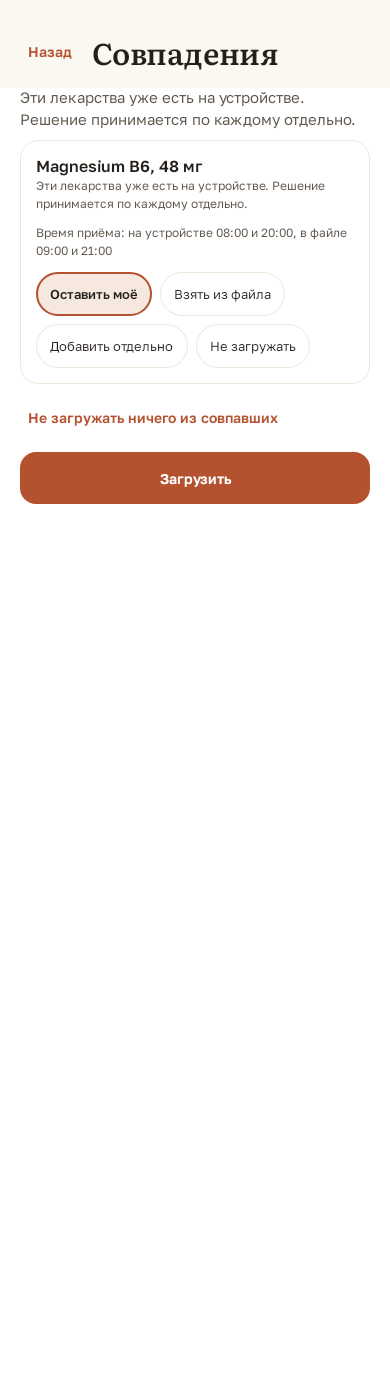
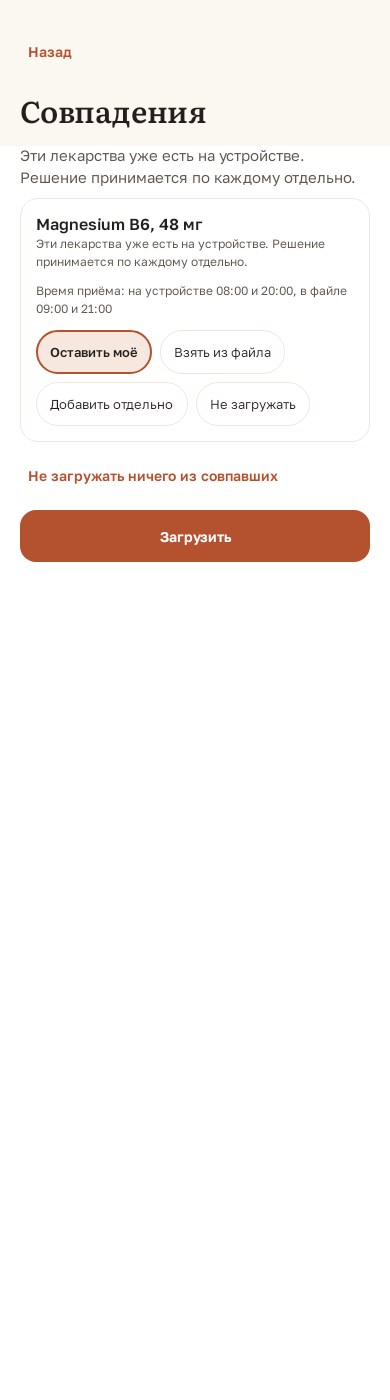
fix(SKL-60): refresh the transfer counts, wrap the chips and the nested header

Changed region(s): [[0.0308, 0.0307, 0.9538, 0.3993]]

diff --git a/feature-settings/src/testDebug/kotlin/ru/stohastika/sklyanka/feature/settings/transfer/DataTransferRouteTest.kt b/feature-settings/src/testDebug/kotlin/ru/stohastika/sklyanka/feature/settings/transfer/DataTransferRouteTest.kt
@@ -1,0 +1,125 @@
+package ru.stohastika.sklyanka.feature.settings.transfer
+
+import android.os.Looper
+import androidx.compose.ui.test.junit4.createComposeRule
+import androidx.compose.ui.test.onAllNodesWithText
+import androidx.test.ext.junit.runners.AndroidJUnit4
+import androidx.test.platform.app.InstrumentationRegistry
+import org.junit.Rule
+import org.junit.Test
+import org.junit.runner.RunWith
+import org.robolectric.Shadows.shadowOf
+import org.robolectric.annotation.Config
+import ru.stohastika.sklyanka.domain.time.FixedTimeSource
+import ru.stohastika.sklyanka.domain.transfer.AppStamp
+import ru.stohastika.sklyanka.domain.transfer.ApplyTransferUseCase
+import ru.stohastika.sklyanka.domain.transfer.BuildTransferPlan
+import ru.stohastika.sklyanka.domain.transfer.DeviceState
+import ru.stohastika.sklyanka.domain.transfer.ExportDataUseCase
+import ru.stohastika.sklyanka.domain.transfer.ReadTransferFileUseCase
+import ru.stohastika.sklyanka.domain.transfer.TransferDecoded
+import ru.stohastika.sklyanka.domain.transfer.ValidateSnapshot
+import ru.stohastika.sklyanka.feature.settings.R
+import ru.stohastika.sklyanka.ui.theme.SklyankaTheme
+
+/**
+ * Экран «Перенос данных» вместе с его состоянием (SKL-60).
+ *
+ * Проверяет то, что увидел человек: состав устройства перечитывается при каждом
+ * открытии экрана. Между заходами данные меняются — лекарства добавляются, курсы
+ * уходят в архив, — и вчерашние числа в чипах — ложь в том месте, где человек
+ * решает, что попадёт в его резервную копию.
+ */
+@RunWith(AndroidJUnit4::class)
+@Config(qualifiers = "w390dp-h2400dp-mdpi")
+class DataTransferRouteTest {
+
+    @get:Rule
+    val composeRule = createComposeRule()
+
+    private val context = InstrumentationRegistry.getInstrumentation().targetContext
+
+    private val store = FakeTransferStore(
+        DeviceState(
+            profiles = listOf(TransferData.self()),
+            medications = listOf(TransferData.medication(id = "first")),
+            intakes = emptyList(),
+        ),
+    )
+    private val files = FakeTransferFiles()
+    private val settings = FakeSettingsStore()
+    private val log = RecordingLog()
+    private val replanner = FakeReplanner()
+    private val ids = FixedIds()
+    private val codec = FakeCodec(TransferDecoded.Loaded(TransferData.snapshot(), emptyList()))
+    private val time = FixedTimeSource(TransferData.EXPORTED_AT, java.time.ZoneId.of("Europe/Moscow"))
+
+    @Test
+    fun theCountsAreReadAgainWhenTheScreenOpens() {
+        val model = viewModel()
+        // Экран был закрыт: первое чтение состава состоялось, дальше данные меняются.
+        shadowOf(Looper.getMainLooper()).idle()
+        store.state = DeviceState(
+            profiles = listOf(TransferData.self()),
+            medications = listOf(
+                TransferData.medication(id = "first"),
+                TransferData.medication(id = "second"),
+                TransferData.medication(id = "third"),
+            ),
+            intakes = emptyList(),
+        )
+
+        composeRule.setContent {
+            SklyankaTheme {
+                DataTransferRoute(viewModel = model, onOpenPermissions = {}, onBack = {})
+            }
+        }
+
+        val expected = context.resources.getQuantityString(R.plurals.transfer_chip_medications, 3, 3)
+        composeRule.waitUntil(timeoutMillis = WAIT_MS) {
+            composeRule.onAllNodesWithText(expected, useUnmergedTree = true).fetchSemanticsNodes().isNotEmpty()
+        }
+    }
+
+    private fun viewModel(): DataTransferViewModel {
+        val export = ExportDataUseCase(
+            store = store,
+            settings = settings,
+            codec = codec,
+            files = files,
+            time = time,
+            log = log,
+            app = AppStamp(versionName = "1.0", versionCode = 10),
+        )
+        val read = ReadTransferFileUseCase(
+            files = files,
+            codec = codec,
+            validate = ValidateSnapshot(),
+            log = log,
+        )
+        val apply = ApplyTransferUseCase(
+            store = store,
+            settings = settings,
+            codec = codec,
+            files = files,
+            activeProfile = FakeActiveProfile(),
+            replanner = replanner,
+            log = log,
+            buildPlan = BuildTransferPlan(ids),
+        )
+        return DataTransferViewModel(
+            exportData = export,
+            readFile = read,
+            applyTransfer = apply,
+            store = store,
+            settings = settings,
+            files = files,
+            ids = ids,
+            time = time,
+        )
+    }
+
+    private companion object {
+        const val WAIT_MS = 5_000L
+    }
+}

diff --git a/feature-settings/src/testDebug/kotlin/ru/stohastika/sklyanka/feature/settings/transfer/DataTransferScreenTest.kt b/feature-settings/src/testDebug/kotlin/ru/stohastika/sklyanka/feature/settings/transfer/DataTransferScreenTest.kt
@@ -15,6 +15,7 @@ import androidx.compose.ui.test.performTextReplacement
 import androidx.test.ext.junit.runners.AndroidJUnit4
 import androidx.test.platform.app.InstrumentationRegistry
 import org.junit.Assert.assertEquals
+import org.junit.Assert.assertTrue
 import org.junit.Rule
 import org.junit.Test
 import org.junit.runner.RunWith
@@ -27,6 +28,7 @@ import ru.stohastika.sklyanka.feature.settings.R
 import ru.stohastika.sklyanka.ui.component.TAG_TEXT_FIELD_ERROR
 import ru.stohastika.sklyanka.ui.component.TAG_TEXT_FIELD_INPUT
 import ru.stohastika.sklyanka.ui.theme.SklyankaTheme
+import ru.stohastika.sklyanka.ui.R as UiR
 
 /**
  * Экран «Перенос данных» и экраны, которых нет в макетах и которые собраны из компонентов
@@ -61,6 +63,50 @@ class DataTransferScreenTest {
 
         composeRule.onNodeWithTag(TAG_COMPOSITION).assertIsDisplayed()
         composeRule.onNodeWithText(context.getString(R.string.transfer_export_chip_settings)).assertIsDisplayed()
+    }
+
+    /**
+     * Чипы состава переносятся целыми, а не сжимаются в колонки (SKL-60, дефект пилота).
+     *
+     * Пять чипов не умещаются в два фиксированных ряда: последний получал нулевую
+     * ширину и разворачивался по одной букве. Проверяется по геометрии: у каждого
+     * чипа своя ширина, достаточная для его подписи.
+     */
+    @Test
+    fun everyCompositionChipKeepsItsOwnWidth() {
+        showOverview(TransferScreenFixtures.overview())
+
+        val chips = listOf(
+            context.resources.getQuantityString(R.plurals.transfer_chip_medications, CHIP_MEDICATIONS, CHIP_MEDICATIONS),
+            context.resources.getQuantityString(R.plurals.transfer_chip_archived, CHIP_ARCHIVED, CHIP_ARCHIVED),
+            context.resources.getQuantityString(R.plurals.transfer_chip_history_months, CHIP_MONTHS, CHIP_MONTHS),
+            context.resources.getQuantityString(R.plurals.transfer_chip_profiles, CHIP_PROFILES, CHIP_PROFILES),
+            context.getString(R.string.transfer_export_chip_settings),
+        )
+        chips.forEach { text ->
+            val node = composeRule.onNodeWithText(text, useUnmergedTree = true).fetchSemanticsNode()
+            val width = with(composeRule.density) { node.size.width.toDp().value }
+            assertTrue("чип «$text» сжат до ${width}dp", width >= MIN_CHIP_WIDTH_DP)
+        }
+    }
+
+    /**
+     * Заголовок вложенного экрана стоит на своей строке, а не висит после «Назад» (SKL-60).
+     */
+    @Test
+    fun theTitleStandsOnItsOwnLineUnderTheBackLabel() {
+        showOverview(TransferScreenFixtures.overview())
+
+        val back = composeRule
+            .onNodeWithText(context.getString(UiR.string.action_back), useUnmergedTree = true)
+            .fetchSemanticsNode()
+        val title = composeRule
+            .onNodeWithText(context.getString(R.string.transfer_title), useUnmergedTree = true)
+            .fetchSemanticsNode()
+        assertTrue(
+            "заголовок делит строку с «Назад»: back=${back.boundsInRoot}, title=${title.boundsInRoot}",
+            title.boundsInRoot.top >= back.boundsInRoot.bottom,
+        )
     }
 
     @Test
@@ -277,6 +323,16 @@ class DataTransferScreenTest {
                 )
             }
         }
+    }
+
+    private companion object {
+        const val CHIP_MEDICATIONS = 5
+        const val CHIP_ARCHIVED = 12
+        const val CHIP_MONTHS = 8
+        const val CHIP_PROFILES = 2
+
+        /** Ширина текста «настройки» на 12 sp; сжатая колонка до неё не дотягивает. */
+        const val MIN_CHIP_WIDTH_DP = 40f
     }
 
     private fun showMatches(state: TransferUiState) {

diff --git a/feature-settings/src/main/kotlin/ru/stohastika/sklyanka/feature/settings/transfer/TransferBlocks.kt b/feature-settings/src/main/kotlin/ru/stohastika/sklyanka/feature/settings/transfer/TransferBlocks.kt
@@ -4,6 +4,8 @@ import androidx.compose.foundation.background
 import androidx.compose.foundation.border
 import androidx.compose.foundation.layout.Arrangement
 import androidx.compose.foundation.layout.Column
+import androidx.compose.foundation.layout.ExperimentalLayoutApi
+import androidx.compose.foundation.layout.FlowRow
 import androidx.compose.foundation.layout.Row
 import androidx.compose.foundation.layout.fillMaxWidth
 import androidx.compose.foundation.layout.padding
@@ -96,6 +98,7 @@ internal fun ModeOption(
  * «N в архиве», «история за N месяцев», «N профиля», «настройки». Чипа «звуки» из макета
  * здесь нет, а чип «настройки» есть — решение ОВ-66, `task.md` «Дефекты постановки».
  */
+@OptIn(ExperimentalLayoutApi::class)
 @Composable
 internal fun CompositionChips(
     medications: Int,
@@ -105,21 +108,19 @@ internal fun CompositionChips(
     settingsLabel: String,
     modifier: Modifier = Modifier,
 ) {
-    Row(
+    // Поток, а не два фиксированных ряда: число и длина чипов зависят от данных, и на
+    // реальной ширине последний чип получал нулевую ширину и разворачивался по буквам
+    // (SKL-60, дефект пилота). Чип переносится целиком.
+    FlowRow(
         modifier = modifier.fillMaxWidth().testTag(TAG_COMPOSITION),
         horizontalArrangement = Arrangement.spacedBy(SklyankaSpacing.Small),
+        verticalArrangement = Arrangement.spacedBy(SklyankaSpacing.Small),
     ) {
-        Column(verticalArrangement = Arrangement.spacedBy(SklyankaSpacing.Small)) {
-            Row(horizontalArrangement = Arrangement.spacedBy(SklyankaSpacing.Small)) {
-                InfoChip(medicationsChip(medications))
-                InfoChip(archivedChip(archived))
-            }
-            Row(horizontalArrangement = Arrangement.spacedBy(SklyankaSpacing.Small)) {
-                if (historyMonths != null) InfoChip(historyChip(historyMonths))
-                InfoChip(profilesChip(profiles))
-                InfoChip(settingsLabel)
-            }
-        }
+        InfoChip(medicationsChip(medications))
+        InfoChip(archivedChip(archived))
+        if (historyMonths != null) InfoChip(historyChip(historyMonths))
+        InfoChip(profilesChip(profiles))
+        InfoChip(settingsLabel)
     }
 }
 

diff --git a/core-ui/src/main/kotlin/ru/stohastika/sklyanka/ui/component/ScreenHeader.kt b/core-ui/src/main/kotlin/ru/stohastika/sklyanka/ui/component/ScreenHeader.kt
@@ -51,6 +51,11 @@ fun ScreenHeader(
     val profileName = LocalProfileChrome.current.foreignName
     val overline = labels.overline
     val foreign = profileName != null
+    // Вложенная шапка с действием «Назад» разводит действие и заголовок по строкам:
+    // так нарисованы макеты вложенных экранов (`DataTransfer.dc.html`, `History.dc.html`,
+    // `MedCard.dc.html`). В одной строке заголовок «Перенос данных» не помещался рядом
+    // с кнопкой и переносился с висячим отступом (SKL-60, дефект пилота).
+    val nestedWithBack = kind == ScreenHeaderKind.Nested && onBack != null
     Column(
         modifier = modifier
             .fillMaxWidth()
@@ -66,12 +71,23 @@ fun ScreenHeader(
         // ровно один, и зазор ни на что не влияет.
         verticalArrangement = Arrangement.spacedBy(SklyankaSpacing.Large),
     ) {
+        if (nestedWithBack) {
+            Row(
+                modifier = Modifier.fillMaxWidth(),
+                verticalAlignment = Alignment.CenterVertically,
+                horizontalArrangement = Arrangement.spacedBy(SklyankaSpacing.Medium),
+            ) {
+                BackAction(kind, onBack)
+                Box(modifier = Modifier.weight(1f))
+                trailing?.invoke()
+            }
+        }
         Row(
             modifier = Modifier.fillMaxWidth(),
             verticalAlignment = Alignment.Top,
             horizontalArrangement = Arrangement.spacedBy(SklyankaSpacing.Medium),
         ) {
-            if (kind != ScreenHeaderKind.Root && onBack != null) {
+            if (!nestedWithBack && kind != ScreenHeaderKind.Root && onBack != null) {
                 BackAction(kind, onBack)
             }
             Column(
@@ -93,7 +109,7 @@ fun ScreenHeader(
                     color = colors.text,
                 )
             }
-            trailing?.invoke()
+            if (!nestedWithBack) trailing?.invoke()
         }
         if (profileName != null) {
             // Баннер стоит внутри подкрашенной шапки — так он нарисован в макете

diff --git a/feature-settings/src/main/kotlin/ru/stohastika/sklyanka/feature/settings/transfer/DataTransferRoute.kt b/feature-settings/src/main/kotlin/ru/stohastika/sklyanka/feature/settings/transfer/DataTransferRoute.kt
@@ -7,6 +7,7 @@ import androidx.activity.compose.rememberLauncherForActivityResult
 import androidx.activity.result.contract.ActivityResultContracts
 import androidx.compose.runtime.Composable
 import androidx.compose.runtime.DisposableEffect
+import androidx.compose.runtime.LaunchedEffect
 import androidx.compose.runtime.collectAsState
 import androidx.compose.runtime.getValue
 import androidx.compose.ui.Modifier
@@ -43,6 +44,11 @@ fun DataTransferRoute(
     val pickLauncher = rememberLauncherForActivityResult(
         contract = ActivityResultContracts.OpenDocument(),
     ) { uri -> uri?.let { viewModel.onIntent(TransferIntent.FileChosen(it.toString())) } }
+
+    // Появление экрана: состав устройства мог измениться, пока его не было. Состояние
+    // экрана живёт дольше одного захода, и без перечитывания чипы показывали вчерашние
+    // числа (SKL-60, ПЕР-3).
+    LaunchedEffect(Unit) { viewModel.onIntent(TransferIntent.Refresh) }
 
     // Загрузка не переживает уход с экрана (ПЕР-17): при возвращении перенос начинается
     // сначала, и разобранный файл не остаётся висеть в памяти вместе с историей человека.

diff --git a/feature-settings/src/main/kotlin/ru/stohastika/sklyanka/feature/settings/transfer/TransferIntent.kt b/feature-settings/src/main/kotlin/ru/stohastika/sklyanka/feature/settings/transfer/TransferIntent.kt
@@ -13,6 +13,15 @@ sealed interface TransferIntent {
 
     data class SelectMode(val mode: TransferMode) : TransferIntent
 
+    /**
+     * Экран появился: состав устройства перечитывается.
+     *
+     * Состояние экрана живёт дольше одного захода, а данные меняются, пока его не было.
+     * Без этого чипы состава показывали вчерашние числа, то есть врали в месте, где
+     * человек решает, что попадёт в его резервную копию (SKL-60, ПЕР-3).
+     */
+    data object Refresh : TransferIntent
+
     /** Место сохранения выбрано системой; путь нигде не сохраняется (ПЕР-36). */
     data class SaveTo(val target: String) : TransferIntent
 

diff --git a/feature-settings/src/main/kotlin/ru/stohastika/sklyanka/feature/settings/transfer/DataTransferViewModel.kt b/feature-settings/src/main/kotlin/ru/stohastika/sklyanka/feature/settings/transfer/DataTransferViewModel.kt
@@ -69,6 +69,7 @@ class DataTransferViewModel @Inject constructor(
 
     fun onIntent(intent: TransferIntent) {
         when (intent) {
+            TransferIntent.Refresh -> refreshOverview()
             is TransferIntent.SelectMode -> mutable.update { it.copy(mode = intent.mode, failure = null) }
             is TransferIntent.SaveTo -> save(ExportTarget(intent.target))
             is TransferIntent.FileChosen -> openFile(ImportSource(intent.source))
